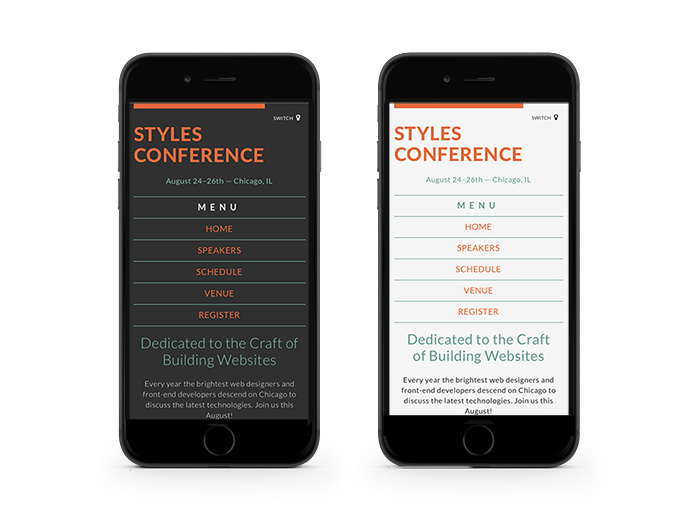
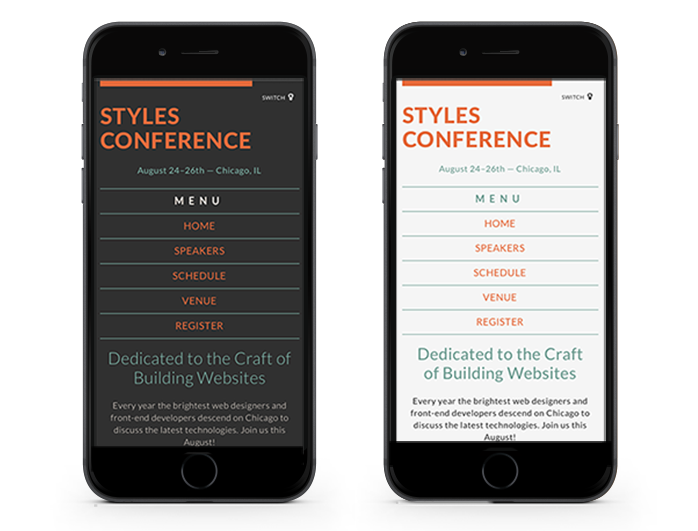
tcycle slide working

diff --git a/js/slick.min.js b/js/slick.min.js
@@ -1,0 +1,20 @@
+/*
+     _ _      _       _
+ ___| (_) ___| | __  (_)___
+/ __| | |/ __| |/ /  | / __|
+\__ \ | | (__|   < _ | \__ \
+|___/_|_|\___|_|\_(_)/ |___/
+                   |__/
+
+ Version: 1.5.0
+  Author: Ken Wheeler
+ Website: http://kenwheeler.github.io
+    Docs: http://kenwheeler.github.io/slick
+    Repo: http://github.com/kenwheeler/slick
+  Issues: http://github.com/kenwheeler/slick/issues
+
+ */
+/* global window, document, define, jQuery, setInterval, clearInterval */
+
+!function(a){"use strict";"function"==typeof define&&define.amd?define(["jquery"],a):"undefined"!=typeof exports?module.exports=a(require("jquery")):a(jQuery)}(function(a){"use strict";var b=window.Slick||{};b=function(){function c(c,d){var f,g,h,e=this;if(e.defaults={accessibility:!0,adaptiveHeight:!1,appendArrows:a(c),appendDots:a(c),arrows:!0,asNavFor:null,prevArrow:'<button type="button" data-role="none" class="slick-prev" aria-label="previous">Previous</button>',nextArrow:'<button type="button" data-role="none" class="slick-next" aria-label="next">Next</button>',autoplay:!1,autoplaySpeed:3e3,centerMode:!1,centerPadding:"50px",cssEase:"ease",customPaging:function(a,b){return'<button type="button" data-role="none">'+(b+1)+"</button>"},dots:!1,dotsClass:"slick-dots",draggable:!0,easing:"linear",edgeFriction:.35,fade:!1,focusOnSelect:!1,infinite:!0,initialSlide:0,lazyLoad:"ondemand",mobileFirst:!1,pauseOnHover:!0,pauseOnDotsHover:!1,respondTo:"window",responsive:null,rows:1,rtl:!1,slide:"",slidesPerRow:1,slidesToShow:1,slidesToScroll:1,speed:500,swipe:!0,swipeToSlide:!1,touchMove:!0,touchThreshold:5,useCSS:!0,variableWidth:!1,vertical:!1,verticalSwiping:!1,waitForAnimate:!0},e.initials={animating:!1,dragging:!1,autoPlayTimer:null,currentDirection:0,currentLeft:null,currentSlide:0,direction:1,$dots:null,listWidth:null,listHeight:null,loadIndex:0,$nextArrow:null,$prevArrow:null,slideCount:null,slideWidth:null,$slideTrack:null,$slides:null,sliding:!1,slideOffset:0,swipeLeft:null,$list:null,touchObject:{},transformsEnabled:!1},a.extend(e,e.initials),e.activeBreakpoint=null,e.animType=null,e.animProp=null,e.breakpoints=[],e.breakpointSettings=[],e.cssTransitions=!1,e.hidden="hidden",e.paused=!1,e.positionProp=null,e.respondTo=null,e.rowCount=1,e.shouldClick=!0,e.$slider=a(c),e.$slidesCache=null,e.transformType=null,e.transitionType=null,e.visibilityChange="visibilitychange",e.windowWidth=0,e.windowTimer=null,f=a(c).data("slick")||{},e.options=a.extend({},e.defaults,f,d),e.currentSlide=e.options.initialSlide,e.originalSettings=e.options,g=e.options.responsive||null,g&&g.length>-1){e.respondTo=e.options.respondTo||"window";for(h in g)g.hasOwnProperty(h)&&(e.breakpoints.push(g[h].breakpoint),e.breakpointSettings[g[h].breakpoint]=g[h].settings);e.breakpoints.sort(function(a,b){return e.options.mobileFirst===!0?a-b:b-a})}"undefined"!=typeof document.mozHidden?(e.hidden="mozHidden",e.visibilityChange="mozvisibilitychange"):"undefined"!=typeof document.msHidden?(e.hidden="msHidden",e.visibilityChange="msvisibilitychange"):"undefined"!=typeof document.webkitHidden&&(e.hidden="webkitHidden",e.visibilityChange="webkitvisibilitychange"),e.autoPlay=a.proxy(e.autoPlay,e),e.autoPlayClear=a.proxy(e.autoPlayClear,e),e.changeSlide=a.proxy(e.changeSlide,e),e.clickHandler=a.proxy(e.clickHandler,e),e.selectHandler=a.proxy(e.selectHandler,e),e.setPosition=a.proxy(e.setPosition,e),e.swipeHandler=a.proxy(e.swipeHandler,e),e.dragHandler=a.proxy(e.dragHandler,e),e.keyHandler=a.proxy(e.keyHandler,e),e.autoPlayIterator=a.proxy(e.autoPlayIterator,e),e.instanceUid=b++,e.htmlExpr=/^(?:\s*(<[\w\W]+>)[^>]*)$/,e.init(),e.checkResponsive(!0)}var b=0;return c}(),b.prototype.addSlide=b.prototype.slickAdd=function(b,c,d){var e=this;if("boolean"==typeof c)d=c,c=null;else if(0>c||c>=e.slideCount)return!1;e.unload(),"number"==typeof c?0===c&&0===e.$slides.length?a(b).appendTo(e.$slideTrack):d?a(b).insertBefore(e.$slides.eq(c)):a(b).insertAfter(e.$slides.eq(c)):d===!0?a(b).prependTo(e.$slideTrack):a(b).appendTo(e.$slideTrack),e.$slides=e.$slideTrack.children(this.options.slide),e.$slideTrack.children(this.options.slide).detach(),e.$slideTrack.append(e.$slides),e.$slides.each(function(b,c){a(c).attr("data-slick-index",b)}),e.$slidesCache=e.$slides,e.reinit()},b.prototype.animateHeight=function(){var a=this;if(1===a.options.slidesToShow&&a.options.adaptiveHeight===!0&&a.options.vertical===!1){var b=a.$slides.eq(a.currentSlide).outerHeight(!0);a.$list.animate({height:b},a.options.speed)}},b.prototype.animateSlide=function(b,c){var d={},e=this;e.animateHeight(),e.options.rtl===!0&&e.options.vertical===!1&&(b=-b),e.transformsEnabled===!1?e.options.vertical===!1?e.$slideTrack.animate({left:b},e.options.speed,e.options.easing,c):e.$slideTrack.animate({top:b},e.options.speed,e.options.easing,c):e.cssTransitions===!1?(e.options.rtl===!0&&(e.currentLeft=-e.currentLeft),a({animStart:e.currentLeft}).animate({animStart:b},{duration:e.options.speed,easing:e.options.easing,step:function(a){a=Math.ceil(a),e.options.vertical===!1?(d[e.animType]="translate("+a+"px, 0px)",e.$slideTrack.css(d)):(d[e.animType]="translate(0px,"+a+"px)",e.$slideTrack.css(d))},complete:function(){c&&c.call()}})):(e.applyTransition(),b=Math.ceil(b),d[e.animType]=e.options.vertical===!1?"translate3d("+b+"px, 0px, 0px)":"translate3d(0px,"+b+"px, 0px)",e.$slideTrack.css(d),c&&setTimeout(function(){e.disableTransition(),c.call()},e.options.speed))},b.prototype.asNavFor=function(b){var c=this,d=null!==c.options.asNavFor?a(c.options.asNavFor).slick("getSlick"):null;null!==d&&d.slideHandler(b,!0)},b.prototype.applyTransition=function(a){var b=this,c={};c[b.transitionType]=b.options.fade===!1?b.transformType+" "+b.options.speed+"ms "+b.options.cssEase:"opacity "+b.options.speed+"ms "+b.options.cssEase,b.options.fade===!1?b.$slideTrack.css(c):b.$slides.eq(a).css(c)},b.prototype.autoPlay=function(){var a=this;a.autoPlayTimer&&clearInterval(a.autoPlayTimer),a.slideCount>a.options.slidesToShow&&a.paused!==!0&&(a.autoPlayTimer=setInterval(a.autoPlayIterator,a.options.autoplaySpeed))},b.prototype.autoPlayClear=function(){var a=this;a.autoPlayTimer&&clearInterval(a.autoPlayTimer)},b.prototype.autoPlayIterator=function(){var a=this;a.options.infinite===!1?1===a.direction?(a.currentSlide+1===a.slideCount-1&&(a.direction=0),a.slideHandler(a.currentSlide+a.options.slidesToScroll)):(0===a.currentSlide-1&&(a.direction=1),a.slideHandler(a.currentSlide-a.options.slidesToScroll)):a.slideHandler(a.currentSlide+a.options.slidesToScroll)},b.prototype.buildArrows=function(){var b=this;b.options.arrows===!0&&b.slideCount>b.options.slidesToShow&&(b.$prevArrow=a(b.options.prevArrow),b.$nextArrow=a(b.options.nextArrow),b.htmlExpr.test(b.options.prevArrow)&&b.$prevArrow.appendTo(b.options.appendArrows),b.htmlExpr.test(b.options.nextArrow)&&b.$nextArrow.appendTo(b.options.appendArrows),b.options.infinite!==!0&&b.$prevArrow.addClass("slick-disabled"))},b.prototype.buildDots=function(){var c,d,b=this;if(b.options.dots===!0&&b.slideCount>b.options.slidesToShow){for(d='<ul class="'+b.options.dotsClass+'">',c=0;c<=b.getDotCount();c+=1)d+="<li>"+b.options.customPaging.call(this,b,c)+"</li>";d+="</ul>",b.$dots=a(d).appendTo(b.options.appendDots),b.$dots.find("li").first().addClass("slick-active").attr("aria-hidden","false")}},b.prototype.buildOut=function(){var b=this;b.$slides=b.$slider.children(":not(.slick-cloned)").addClass("slick-slide"),b.slideCount=b.$slides.length,b.$slides.each(function(b,c){a(c).attr("data-slick-index",b)}),b.$slidesCache=b.$slides,b.$slider.addClass("slick-slider"),b.$slideTrack=0===b.slideCount?a('<div class="slick-track"/>').appendTo(b.$slider):b.$slides.wrapAll('<div class="slick-track"/>').parent(),b.$list=b.$slideTrack.wrap('<div aria-live="polite" class="slick-list"/>').parent(),b.$slideTrack.css("opacity",0),(b.options.centerMode===!0||b.options.swipeToSlide===!0)&&(b.options.slidesToScroll=1),a("img[data-lazy]",b.$slider).not("[src]").addClass("slick-loading"),b.setupInfinite(),b.buildArrows(),b.buildDots(),b.updateDots(),b.options.accessibility===!0&&b.$list.prop("tabIndex",0),b.setSlideClasses("number"==typeof this.currentSlide?this.currentSlide:0),b.options.draggable===!0&&b.$list.addClass("draggable")},b.prototype.buildRows=function(){var b,c,d,e,f,g,h,a=this;if(e=document.createDocumentFragment(),g=a.$slider.children(),a.options.rows>1){for(h=a.options.slidesPerRow*a.options.rows,f=Math.ceil(g.length/h),b=0;f>b;b++){var i=document.createElement("div");for(c=0;c<a.options.rows;c++){var j=document.createElement("div");for(d=0;d<a.options.slidesPerRow;d++){var k=b*h+(c*a.options.slidesPerRow+d);g.get(k)&&j.appendChild(g.get(k))}i.appendChild(j)}e.appendChild(i)}a.$slider.html(e),a.$slider.children().children().children().width(100/a.options.slidesPerRow+"%").css({display:"inline-block"})}},b.prototype.checkResponsive=function(b){var d,e,f,c=this,g=c.$slider.width(),h=window.innerWidth||a(window).width();if("window"===c.respondTo?f=h:"slider"===c.respondTo?f=g:"min"===c.respondTo&&(f=Math.min(h,g)),c.originalSettings.responsive&&c.originalSettings.responsive.length>-1&&null!==c.originalSettings.responsive){e=null;for(d in c.breakpoints)c.breakpoints.hasOwnProperty(d)&&(c.originalSettings.mobileFirst===!1?f<c.breakpoints[d]&&(e=c.breakpoints[d]):f>c.breakpoints[d]&&(e=c.breakpoints[d]));null!==e?null!==c.activeBreakpoint?e!==c.activeBreakpoint&&(c.activeBreakpoint=e,"unslick"===c.breakpointSettings[e]?c.unslick():(c.options=a.extend({},c.originalSettings,c.breakpointSettings[e]),b===!0&&(c.currentSlide=c.options.initialSlide),c.refresh())):(c.activeBreakpoint=e,"unslick"===c.breakpointSettings[e]?c.unslick():(c.options=a.extend({},c.originalSettings,c.breakpointSettings[e]),b===!0&&(c.currentSlide=c.options.initialSlide),c.refresh())):null!==c.activeBreakpoint&&(c.activeBreakpoint=null,c.options=c.originalSettings,b===!0&&(c.currentSlide=c.options.initialSlide),c.refresh())}},b.prototype.changeSlide=function(b,c){var f,g,h,d=this,e=a(b.target);switch(e.is("a")&&b.preventDefault(),h=0!==d.slideCount%d.options.slidesToScroll,f=h?0:(d.slideCount-d.currentSlide)%d.options.slidesToScroll,b.data.message){case"previous":g=0===f?d.options.slidesToScroll:d.options.slidesToShow-f,d.slideCount>d.options.slidesToShow&&d.slideHandler(d.currentSlide-g,!1,c);break;case"next":g=0===f?d.options.slidesToScroll:f,d.slideCount>d.options.slidesToShow&&d.slideHandler(d.currentSlide+g,!1,c);break;case"index":var i=0===b.data.index?0:b.data.index||a(b.target).parent().index()*d.options.slidesToScroll;d.slideHandler(d.checkNavigable(i),!1,c);break;default:return}},b.prototype.checkNavigable=function(a){var c,d,b=this;if(c=b.getNavigableIndexes(),d=0,a>c[c.length-1])a=c[c.length-1];else for(var e in c){if(a<c[e]){a=d;break}d=c[e]}return a},b.prototype.cleanUpEvents=function(){var b=this;b.options.dots===!0&&b.slideCount>b.options.slidesToShow&&a("li",b.$dots).off("click.slick",b.changeSlide),b.options.dots===!0&&b.options.pauseOnDotsHover===!0&&b.options.autoplay===!0&&a("li",b.$dots).off("mouseenter.slick",b.setPaused.bind(b,!0)).off("mouseleave.slick",b.setPaused.bind(b,!1)),b.options.arrows===!0&&b.slideCount>b.options.slidesToShow&&(b.$prevArrow&&b.$prevArrow.off("click.slick",b.changeSlide),b.$nextArrow&&b.$nextArrow.off("click.slick",b.changeSlide)),b.$list.off("touchstart.slick mousedown.slick",b.swipeHandler),b.$list.off("touchmove.slick mousemove.slick",b.swipeHandler),b.$list.off("touchend.slick mouseup.slick",b.swipeHandler),b.$list.off("touchcancel.slick mouseleave.slick",b.swipeHandler),b.$list.off("click.slick",b.clickHandler),b.options.autoplay===!0&&a(document).off(b.visibilityChange,b.visibility),b.$list.off("mouseenter.slick",b.setPaused.bind(b,!0)),b.$list.off("mouseleave.slick",b.setPaused.bind(b,!1)),b.options.accessibility===!0&&b.$list.off("keydown.slick",b.keyHandler),b.options.focusOnSelect===!0&&a(b.$slideTrack).children().off("click.slick",b.selectHandler),a(window).off("orientationchange.slick.slick-"+b.instanceUid,b.orientationChange),a(window).off("resize.slick.slick-"+b.instanceUid,b.resize),a("[draggable!=true]",b.$slideTrack).off("dragstart",b.preventDefault),a(window).off("load.slick.slick-"+b.instanceUid,b.setPosition),a(document).off("ready.slick.slick-"+b.instanceUid,b.setPosition)},b.prototype.cleanUpRows=function(){var b,a=this;a.options.rows>1&&(b=a.$slides.children().children(),b.removeAttr("style"),a.$slider.html(b))},b.prototype.clickHandler=function(a){var b=this;b.shouldClick===!1&&(a.stopImmediatePropagation(),a.stopPropagation(),a.preventDefault())},b.prototype.destroy=function(){var b=this;b.autoPlayClear(),b.touchObject={},b.cleanUpEvents(),a(".slick-cloned",b.$slider).remove(),b.$dots&&b.$dots.remove(),b.$prevArrow&&"object"!=typeof b.options.prevArrow&&b.$prevArrow.remove(),b.$nextArrow&&"object"!=typeof b.options.nextArrow&&b.$nextArrow.remove(),b.$slides&&(b.$slides.removeClass("slick-slide slick-active slick-center slick-visible").attr("aria-hidden","true").removeAttr("data-slick-index").css({position:"",left:"",top:"",zIndex:"",opacity:"",width:""}),b.$slider.html(b.$slides)),b.cleanUpRows(),b.$slider.removeClass("slick-slider"),b.$slider.removeClass("slick-initialized")},b.prototype.disableTransition=function(a){var b=this,c={};c[b.transitionType]="",b.options.fade===!1?b.$slideTrack.css(c):b.$slides.eq(a).css(c)},b.prototype.fadeSlide=function(a,b){var c=this;c.cssTransitions===!1?(c.$slides.eq(a).css({zIndex:1e3}),c.$slides.eq(a).animate({opacity:1},c.options.speed,c.options.easing,b)):(c.applyTransition(a),c.$slides.eq(a).css({opacity:1,zIndex:1e3}),b&&setTimeout(function(){c.disableTransition(a),b.call()},c.options.speed))},b.prototype.filterSlides=b.prototype.slickFilter=function(a){var b=this;null!==a&&(b.unload(),b.$slideTrack.children(this.options.slide).detach(),b.$slidesCache.filter(a).appendTo(b.$slideTrack),b.reinit())},b.prototype.getCurrent=b.prototype.slickCurrentSlide=function(){var a=this;return a.currentSlide},b.prototype.getDotCount=function(){var a=this,b=0,c=0,d=0;if(a.options.infinite===!0)d=Math.ceil(a.slideCount/a.options.slidesToScroll);else if(a.options.centerMode===!0)d=a.slideCount;else for(;b<a.slideCount;)++d,b=c+a.options.slidesToShow,c+=a.options.slidesToScroll<=a.options.slidesToShow?a.options.slidesToScroll:a.options.slidesToShow;return d-1},b.prototype.getLeft=function(a){var c,d,f,b=this,e=0;return b.slideOffset=0,d=b.$slides.first().outerHeight(),b.options.infinite===!0?(b.slideCount>b.options.slidesToShow&&(b.slideOffset=-1*b.slideWidth*b.options.slidesToShow,e=-1*d*b.options.slidesToShow),0!==b.slideCount%b.options.slidesToScroll&&a+b.options.slidesToScroll>b.slideCount&&b.slideCount>b.options.slidesToShow&&(a>b.slideCount?(b.slideOffset=-1*(b.options.slidesToShow-(a-b.slideCount))*b.slideWidth,e=-1*(b.options.slidesToShow-(a-b.slideCount))*d):(b.slideOffset=-1*b.slideCount%b.options.slidesToScroll*b.slideWidth,e=-1*b.slideCount%b.options.slidesToScroll*d))):a+b.options.slidesToShow>b.slideCount&&(b.slideOffset=(a+b.options.slidesToShow-b.slideCount)*b.slideWidth,e=(a+b.options.slidesToShow-b.slideCount)*d),b.slideCount<=b.options.slidesToShow&&(b.slideOffset=0,e=0),b.options.centerMode===!0&&b.options.infinite===!0?b.slideOffset+=b.slideWidth*Math.floor(b.options.slidesToShow/2)-b.slideWidth:b.options.centerMode===!0&&(b.slideOffset=0,b.slideOffset+=b.slideWidth*Math.floor(b.options.slidesToShow/2)),c=b.options.vertical===!1?-1*a*b.slideWidth+b.slideOffset:-1*a*d+e,b.options.variableWidth===!0&&(f=b.slideCount<=b.options.slidesToShow||b.options.infinite===!1?b.$slideTrack.children(".slick-slide").eq(a):b.$slideTrack.children(".slick-slide").eq(a+b.options.slidesToShow),c=f[0]?-1*f[0].offsetLeft:0,b.options.centerMode===!0&&(f=b.options.infinite===!1?b.$slideTrack.children(".slick-slide").eq(a):b.$slideTrack.children(".slick-slide").eq(a+b.options.slidesToShow+1),c=f[0]?-1*f[0].offsetLeft:0,c+=(b.$list.width()-f.outerWidth())/2)),c},b.prototype.getOption=b.prototype.slickGetOption=function(a){var b=this;return b.options[a]},b.prototype.getNavigableIndexes=function(){var e,a=this,b=0,c=0,d=[];for(a.options.infinite===!1?(e=a.slideCount-a.options.slidesToShow+1,a.options.centerMode===!0&&(e=a.slideCount)):(b=-1*a.options.slidesToScroll,c=-1*a.options.slidesToScroll,e=2*a.slideCount);e>b;)d.push(b),b=c+a.options.slidesToScroll,c+=a.options.slidesToScroll<=a.options.slidesToShow?a.options.slidesToScroll:a.options.slidesToShow;return d},b.prototype.getSlick=function(){return this},b.prototype.getSlideCount=function(){var c,d,e,b=this;return e=b.options.centerMode===!0?b.slideWidth*Math.floor(b.options.slidesToShow/2):0,b.options.swipeToSlide===!0?(b.$slideTrack.find(".slick-slide").each(function(c,f){return f.offsetLeft-e+a(f).outerWidth()/2>-1*b.swipeLeft?(d=f,!1):void 0}),c=Math.abs(a(d).attr("data-slick-index")-b.currentSlide)||1):b.options.slidesToScroll},b.prototype.goTo=b.prototype.slickGoTo=function(a,b){var c=this;c.changeSlide({data:{message:"index",index:parseInt(a)}},b)},b.prototype.init=function(){var b=this;a(b.$slider).hasClass("slick-initialized")||(a(b.$slider).addClass("slick-initialized"),b.buildRows(),b.buildOut(),b.setProps(),b.startLoad(),b.loadSlider(),b.initializeEvents(),b.updateArrows(),b.updateDots()),b.$slider.trigger("init",[b])},b.prototype.initArrowEvents=function(){var a=this;a.options.arrows===!0&&a.slideCount>a.options.slidesToShow&&(a.$prevArrow.on("click.slick",{message:"previous"},a.changeSlide),a.$nextArrow.on("click.slick",{message:"next"},a.changeSlide))},b.prototype.initDotEvents=function(){var b=this;b.options.dots===!0&&b.slideCount>b.options.slidesToShow&&a("li",b.$dots).on("click.slick",{message:"index"},b.changeSlide),b.options.dots===!0&&b.options.pauseOnDotsHover===!0&&b.options.autoplay===!0&&a("li",b.$dots).on("mouseenter.slick",b.setPaused.bind(b,!0)).on("mouseleave.slick",b.setPaused.bind(b,!1))},b.prototype.initializeEvents=function(){var b=this;b.initArrowEvents(),b.initDotEvents(),b.$list.on("touchstart.slick mousedown.slick",{action:"start"},b.swipeHandler),b.$list.on("touchmove.slick mousemove.slick",{action:"move"},b.swipeHandler),b.$list.on("touchend.slick mouseup.slick",{action:"end"},b.swipeHandler),b.$list.on("touchcancel.slick mouseleave.slick",{action:"end"},b.swipeHandler),b.$list.on("click.slick",b.clickHandler),b.options.autoplay===!0&&a(document).on(b.visibilityChange,b.visibility.bind(b)),b.$list.on("mouseenter.slick",b.setPaused.bind(b,!0)),b.$list.on("mouseleave.slick",b.setPaused.bind(b,!1)),b.options.accessibility===!0&&b.$list.on("keydown.slick",b.keyHandler),b.options.focusOnSelect===!0&&a(b.$slideTrack).children().on("click.slick",b.selectHandler),a(window).on("orientationchange.slick.slick-"+b.instanceUid,b.orientationChange.bind(b)),a(window).on("resize.slick.slick-"+b.instanceUid,b.resize.bind(b)),a("[draggable!=true]",b.$slideTrack).on("dragstart",b.preventDefault),a(window).on("load.slick.slick-"+b.instanceUid,b.setPosition),a(document).on("ready.slick.slick-"+b.instanceUid,b.setPosition)},b.prototype.initUI=function(){var a=this;a.options.arrows===!0&&a.slideCount>a.options.slidesToShow&&(a.$prevArrow.show(),a.$nextArrow.show()),a.options.dots===!0&&a.slideCount>a.options.slidesToShow&&a.$dots.show(),a.options.autoplay===!0&&a.autoPlay()},b.prototype.keyHandler=function(a){var b=this;37===a.keyCode&&b.options.accessibility===!0?b.changeSlide({data:{message:"previous"}}):39===a.keyCode&&b.options.accessibility===!0&&b.changeSlide({data:{message:"next"}})},b.prototype.lazyLoad=function(){function g(b){a("img[data-lazy]",b).each(function(){var b=a(this),c=a(this).attr("data-lazy"),d=document.createElement("img");d.onload=function(){b.animate({opacity:1},200)},d.src=c,b.css({opacity:0}).attr("src",c).removeAttr("data-lazy").removeClass("slick-loading")})}var c,d,e,f,b=this;b.options.centerMode===!0?b.options.infinite===!0?(e=b.currentSlide+(b.options.slidesToShow/2+1),f=e+b.options.slidesToShow+2):(e=Math.max(0,b.currentSlide-(b.options.slidesToShow/2+1)),f=2+(b.options.slidesToShow/2+1)+b.currentSlide):(e=b.options.infinite?b.options.slidesToShow+b.currentSlide:b.currentSlide,f=e+b.options.slidesToShow,b.options.fade===!0&&(e>0&&e--,f<=b.slideCount&&f++)),c=b.$slider.find(".slick-slide").slice(e,f),g(c),b.slideCount<=b.options.slidesToShow?(d=b.$slider.find(".slick-slide"),g(d)):b.currentSlide>=b.slideCount-b.options.slidesToShow?(d=b.$slider.find(".slick-cloned").slice(0,b.options.slidesToShow),g(d)):0===b.currentSlide&&(d=b.$slider.find(".slick-cloned").slice(-1*b.options.slidesToShow),g(d))},b.prototype.loadSlider=function(){var a=this;a.setPosition(),a.$slideTrack.css({opacity:1}),a.$slider.removeClass("slick-loading"),a.initUI(),"progressive"===a.options.lazyLoad&&a.progressiveLazyLoad()},b.prototype.next=b.prototype.slickNext=function(){var a=this;a.changeSlide({data:{message:"next"}})},b.prototype.orientationChange=function(){var a=this;a.checkResponsive(),a.setPosition()},b.prototype.pause=b.prototype.slickPause=function(){var a=this;a.autoPlayClear(),a.paused=!0},b.prototype.play=b.prototype.slickPlay=function(){var a=this;a.paused=!1,a.autoPlay()},b.prototype.postSlide=function(a){var b=this;b.$slider.trigger("afterChange",[b,a]),b.animating=!1,b.setPosition(),b.swipeLeft=null,b.options.autoplay===!0&&b.paused===!1&&b.autoPlay()},b.prototype.prev=b.prototype.slickPrev=function(){var a=this;a.changeSlide({data:{message:"previous"}})},b.prototype.preventDefault=function(a){a.preventDefault()},b.prototype.progressiveLazyLoad=function(){var c,d,b=this;c=a("img[data-lazy]",b.$slider).length,c>0&&(d=a("img[data-lazy]",b.$slider).first(),d.attr("src",d.attr("data-lazy")).removeClass("slick-loading").load(function(){d.removeAttr("data-lazy"),b.progressiveLazyLoad(),b.options.adaptiveHeight===!0&&b.setPosition()}).error(function(){d.removeAttr("data-lazy"),b.progressiveLazyLoad()}))},b.prototype.refresh=function(){var b=this,c=b.currentSlide;b.destroy(),a.extend(b,b.initials),b.init(),b.changeSlide({data:{message:"index",index:c}},!1)},b.prototype.reinit=function(){var b=this;b.$slides=b.$slideTrack.children(b.options.slide).addClass("slick-slide"),b.slideCount=b.$slides.length,b.currentSlide>=b.slideCount&&0!==b.currentSlide&&(b.currentSlide=b.currentSlide-b.options.slidesToScroll),b.slideCount<=b.options.slidesToShow&&(b.currentSlide=0),b.setProps(),b.setupInfinite(),b.buildArrows(),b.updateArrows(),b.initArrowEvents(),b.buildDots(),b.updateDots(),b.initDotEvents(),b.options.focusOnSelect===!0&&a(b.$slideTrack).children().on("click.slick",b.selectHandler),b.setSlideClasses(0),b.setPosition(),b.$slider.trigger("reInit",[b])},b.prototype.resize=function(){var b=this;a(window).width()!==b.windowWidth&&(clearTimeout(b.windowDelay),b.windowDelay=window.setTimeout(function(){b.windowWidth=a(window).width(),b.checkResponsive(),b.setPosition()},50))},b.prototype.removeSlide=b.prototype.slickRemove=function(a,b,c){var d=this;return"boolean"==typeof a?(b=a,a=b===!0?0:d.slideCount-1):a=b===!0?--a:a,d.slideCount<1||0>a||a>d.slideCount-1?!1:(d.unload(),c===!0?d.$slideTrack.children().remove():d.$slideTrack.children(this.options.slide).eq(a).remove(),d.$slides=d.$slideTrack.children(this.options.slide),d.$slideTrack.children(this.options.slide).detach(),d.$slideTrack.append(d.$slides),d.$slidesCache=d.$slides,d.reinit(),void 0)},b.prototype.setCSS=function(a){var d,e,b=this,c={};b.options.rtl===!0&&(a=-a),d="left"==b.positionProp?Math.ceil(a)+"px":"0px",e="top"==b.positionProp?Math.ceil(a)+"px":"0px",c[b.positionProp]=a,b.transformsEnabled===!1?b.$slideTrack.css(c):(c={},b.cssTransitions===!1?(c[b.animType]="translate("+d+", "+e+")",b.$slideTrack.css(c)):(c[b.animType]="translate3d("+d+", "+e+", 0px)",b.$slideTrack.css(c)))},b.prototype.setDimensions=function(){var a=this;a.options.vertical===!1?a.options.centerMode===!0&&a.$list.css({padding:"0px "+a.options.centerPadding}):(a.$list.height(a.$slides.first().outerHeight(!0)*a.options.slidesToShow),a.options.centerMode===!0&&a.$list.css({padding:a.options.centerPadding+" 0px"})),a.listWidth=a.$list.width(),a.listHeight=a.$list.height(),a.options.vertical===!1&&a.options.variableWidth===!1?(a.slideWidth=Math.ceil(a.listWidth/a.options.slidesToShow),a.$slideTrack.width(Math.ceil(a.slideWidth*a.$slideTrack.children(".slick-slide").length))):a.options.variableWidth===!0?a.$slideTrack.width(5e3*a.slideCount):(a.slideWidth=Math.ceil(a.listWidth),a.$slideTrack.height(Math.ceil(a.$slides.first().outerHeight(!0)*a.$slideTrack.children(".slick-slide").length)));var b=a.$slides.first().outerWidth(!0)-a.$slides.first().width();a.options.variableWidth===!1&&a.$slideTrack.children(".slick-slide").width(a.slideWidth-b)},b.prototype.setFade=function(){var c,b=this;b.$slides.each(function(d,e){c=-1*b.slideWidth*d,b.options.rtl===!0?a(e).css({position:"relative",right:c,top:0,zIndex:800,opacity:0}):a(e).css({position:"relative",left:c,top:0,zIndex:800,opacity:0})}),b.$slides.eq(b.currentSlide).css({zIndex:900,opacity:1})},b.prototype.setHeight=function(){var a=this;if(1===a.options.slidesToShow&&a.options.adaptiveHeight===!0&&a.options.vertical===!1){var b=a.$slides.eq(a.currentSlide).outerHeight(!0);a.$list.css("height",b)}},b.prototype.setOption=b.prototype.slickSetOption=function(a,b,c){var d=this;d.options[a]=b,c===!0&&(d.unload(),d.reinit())},b.prototype.setPosition=function(){var a=this;a.setDimensions(),a.setHeight(),a.options.fade===!1?a.setCSS(a.getLeft(a.currentSlide)):a.setFade(),a.$slider.trigger("setPosition",[a])},b.prototype.setProps=function(){var a=this,b=document.body.style;a.positionProp=a.options.vertical===!0?"top":"left","top"===a.positionProp?a.$slider.addClass("slick-vertical"):a.$slider.removeClass("slick-vertical"),(void 0!==b.WebkitTransition||void 0!==b.MozTransition||void 0!==b.msTransition)&&a.options.useCSS===!0&&(a.cssTransitions=!0),void 0!==b.OTransform&&(a.animType="OTransform",a.transformType="-o-transform",a.transitionType="OTransition",void 0===b.perspectiveProperty&&void 0===b.webkitPerspective&&(a.animType=!1)),void 0!==b.MozTransform&&(a.animType="MozTransform",a.transformType="-moz-transform",a.transitionType="MozTransition",void 0===b.perspectiveProperty&&void 0===b.MozPerspective&&(a.animType=!1)),void 0!==b.webkitTransform&&(a.animType="webkitTransform",a.transformType="-webkit-transform",a.transitionType="webkitTransition",void 0===b.perspectiveProperty&&void 0===b.webkitPerspective&&(a.animType=!1)),void 0!==b.msTransform&&(a.animType="msTransform",a.transformType="-ms-transform",a.transitionType="msTransition",void 0===b.msTransform&&(a.animType=!1)),void 0!==b.transform&&a.animType!==!1&&(a.animType="transform",a.transformType="transform",a.transitionType="transition"),a.transformsEnabled=null!==a.animType&&a.animType!==!1},b.prototype.setSlideClasses=function(a){var c,d,e,f,b=this;b.$slider.find(".slick-slide").removeClass("slick-active").attr("aria-hidden","true").removeClass("slick-center"),d=b.$slider.find(".slick-slide"),b.options.centerMode===!0?(c=Math.floor(b.options.slidesToShow/2),b.options.infinite===!0&&(a>=c&&a<=b.slideCount-1-c?b.$slides.slice(a-c,a+c+1).addClass("slick-active").attr("aria-hidden","false"):(e=b.options.slidesToShow+a,d.slice(e-c+1,e+c+2).addClass("slick-active").attr("aria-hidden","false")),0===a?d.eq(d.length-1-b.options.slidesToShow).addClass("slick-center"):a===b.slideCount-1&&d.eq(b.options.slidesToShow).addClass("slick-center")),b.$slides.eq(a).addClass("slick-center")):a>=0&&a<=b.slideCount-b.options.slidesToShow?b.$slides.slice(a,a+b.options.slidesToShow).addClass("slick-active").attr("aria-hidden","false"):d.length<=b.options.slidesToShow?d.addClass("slick-active").attr("aria-hidden","false"):(f=b.slideCount%b.options.slidesToShow,e=b.options.infinite===!0?b.options.slidesToShow+a:a,b.options.slidesToShow==b.options.slidesToScroll&&b.slideCount-a<b.options.slidesToShow?d.slice(e-(b.options.slidesToShow-f),e+f).addClass("slick-active").attr("aria-hidden","false"):d.slice(e,e+b.options.slidesToShow).addClass("slick-active").attr("aria-hidden","false")),"ondemand"===b.options.lazyLoad&&b.lazyLoad()},b.prototype.setupInfinite=function(){var c,d,e,b=this;if(b.options.fade===!0&&(b.options.centerMode=!1),b.options.infinite===!0&&b.options.fade===!1&&(d=null,b.slideCount>b.options.slidesToShow)){for(e=b.options.centerMode===!0?b.options.slidesToShow+1:b.options.slidesToShow,c=b.slideCount;c>b.slideCount-e;c-=1)d=c-1,a(b.$slides[d]).clone(!0).attr("id","").attr("data-slick-index",d-b.slideCount).prependTo(b.$slideTrack).addClass("slick-cloned");for(c=0;e>c;c+=1)d=c,a(b.$slides[d]).clone(!0).attr("id","").attr("data-slick-index",d+b.slideCount).appendTo(b.$slideTrack).addClass("slick-cloned");b.$slideTrack.find(".slick-cloned").find("[id]").each(function(){a(this).attr("id","")})}},b.prototype.setPaused=function(a){var b=this;b.options.autoplay===!0&&b.options.pauseOnHover===!0&&(b.paused=a,b.autoPlayClear())},b.prototype.selectHandler=function(b){var c=this,d=a(b.target).is(".slick-slide")?a(b.target):a(b.target).parents(".slick-slide"),e=parseInt(d.attr("data-slick-index"));return e||(e=0),c.slideCount<=c.options.slidesToShow?(c.$slider.find(".slick-slide").removeClass("slick-active").attr("aria-hidden","true"),c.$slides.eq(e).addClass("slick-active").attr("aria-hidden","false"),c.options.centerMode===!0&&(c.$slider.find(".slick-slide").removeClass("slick-center"),c.$slides.eq(e).addClass("slick-center")),c.asNavFor(e),void 0):(c.slideHandler(e),void 0)},b.prototype.slideHandler=function(a,b,c){var d,e,f,g,h=null,i=this;return b=b||!1,i.animating===!0&&i.options.waitForAnimate===!0||i.options.fade===!0&&i.currentSlide===a||i.slideCount<=i.options.slidesToShow?void 0:(b===!1&&i.asNavFor(a),d=a,h=i.getLeft(d),g=i.getLeft(i.currentSlide),i.currentLeft=null===i.swipeLeft?g:i.swipeLeft,i.options.infinite===!1&&i.options.centerMode===!1&&(0>a||a>i.getDotCount()*i.options.slidesToScroll)?(i.options.fade===!1&&(d=i.currentSlide,c!==!0?i.animateSlide(g,function(){i.postSlide(d)}):i.postSlide(d)),void 0):i.options.infinite===!1&&i.options.centerMode===!0&&(0>a||a>i.slideCount-i.options.slidesToScroll)?(i.options.fade===!1&&(d=i.currentSlide,c!==!0?i.animateSlide(g,function(){i.postSlide(d)}):i.postSlide(d)),void 0):(i.options.autoplay===!0&&clearInterval(i.autoPlayTimer),e=0>d?0!==i.slideCount%i.options.slidesToScroll?i.slideCount-i.slideCount%i.options.slidesToScroll:i.slideCount+d:d>=i.slideCount?0!==i.slideCount%i.options.slidesToScroll?0:d-i.slideCount:d,i.animating=!0,i.$slider.trigger("beforeChange",[i,i.currentSlide,e]),f=i.currentSlide,i.currentSlide=e,i.setSlideClasses(i.currentSlide),i.updateDots(),i.updateArrows(),i.options.fade===!0?(c!==!0?i.fadeSlide(e,function(){i.postSlide(e)}):i.postSlide(e),i.animateHeight(),void 0):(c!==!0?i.animateSlide(h,function(){i.postSlide(e)}):i.postSlide(e),void 0)))},b.prototype.startLoad=function(){var a=this;a.options.arrows===!0&&a.slideCount>a.options.slidesToShow&&(a.$prevArrow.hide(),a.$nextArrow.hide()),a.options.dots===!0&&a.slideCount>a.options.slidesToShow&&a.$dots.hide(),a.$slider.addClass("slick-loading")},b.prototype.swipeDirection=function(){var a,b,c,d,e=this;return a=e.touchObject.startX-e.touchObject.curX,b=e.touchObject.startY-e.touchObject.curY,c=Math.atan2(b,a),d=Math.round(180*c/Math.PI),0>d&&(d=360-Math.abs(d)),45>=d&&d>=0?e.options.rtl===!1?"left":"right":360>=d&&d>=315?e.options.rtl===!1?"left":"right":d>=135&&225>=d?e.options.rtl===!1?"right":"left":e.options.verticalSwiping===!0?d>=35&&135>=d?"left":"right":"vertical"},b.prototype.swipeEnd=function(){var c,b=this;if(b.dragging=!1,b.shouldClick=b.touchObject.swipeLength>10?!1:!0,void 0===b.touchObject.curX)return!1;if(b.touchObject.edgeHit===!0&&b.$slider.trigger("edge",[b,b.swipeDirection()]),b.touchObject.swipeLength>=b.touchObject.minSwipe)switch(b.swipeDirection()){case"left":c=b.options.swipeToSlide?b.checkNavigable(b.currentSlide+b.getSlideCount()):b.currentSlide+b.getSlideCount(),b.slideHandler(c),b.currentDirection=0,b.touchObject={},b.$slider.trigger("swipe",[b,"left"]);break;case"right":c=b.options.swipeToSlide?b.checkNavigable(b.currentSlide-b.getSlideCount()):b.currentSlide-b.getSlideCount(),b.slideHandler(c),b.currentDirection=1,b.touchObject={},b.$slider.trigger("swipe",[b,"right"])}else b.touchObject.startX!==b.touchObject.curX&&(b.slideHandler(b.currentSlide),b.touchObject={})},b.prototype.swipeHandler=function(a){var b=this;
+if(!(b.options.swipe===!1||"ontouchend"in document&&b.options.swipe===!1||b.options.draggable===!1&&-1!==a.type.indexOf("mouse")))switch(b.touchObject.fingerCount=a.originalEvent&&void 0!==a.originalEvent.touches?a.originalEvent.touches.length:1,b.touchObject.minSwipe=b.listWidth/b.options.touchThreshold,b.options.verticalSwiping===!0&&(b.touchObject.minSwipe=b.listHeight/b.options.touchThreshold),a.data.action){case"start":b.swipeStart(a);break;case"move":b.swipeMove(a);break;case"end":b.swipeEnd(a)}},b.prototype.swipeMove=function(a){var d,e,f,g,h,b=this;return h=void 0!==a.originalEvent?a.originalEvent.touches:null,!b.dragging||h&&1!==h.length?!1:(d=b.getLeft(b.currentSlide),b.touchObject.curX=void 0!==h?h[0].pageX:a.clientX,b.touchObject.curY=void 0!==h?h[0].pageY:a.clientY,b.touchObject.swipeLength=Math.round(Math.sqrt(Math.pow(b.touchObject.curX-b.touchObject.startX,2))),b.options.verticalSwiping===!0&&(b.touchObject.swipeLength=Math.round(Math.sqrt(Math.pow(b.touchObject.curY-b.touchObject.startY,2)))),e=b.swipeDirection(),"vertical"!==e?(void 0!==a.originalEvent&&b.touchObject.swipeLength>4&&a.preventDefault(),g=(b.options.rtl===!1?1:-1)*(b.touchObject.curX>b.touchObject.startX?1:-1),b.options.verticalSwiping===!0&&(g=b.touchObject.curY>b.touchObject.startY?1:-1),f=b.touchObject.swipeLength,b.touchObject.edgeHit=!1,b.options.infinite===!1&&(0===b.currentSlide&&"right"===e||b.currentSlide>=b.getDotCount()&&"left"===e)&&(f=b.touchObject.swipeLength*b.options.edgeFriction,b.touchObject.edgeHit=!0),b.swipeLeft=b.options.vertical===!1?d+f*g:d+f*(b.$list.height()/b.listWidth)*g,b.options.verticalSwiping===!0&&(b.swipeLeft=d+f*g),b.options.fade===!0||b.options.touchMove===!1?!1:b.animating===!0?(b.swipeLeft=null,!1):(b.setCSS(b.swipeLeft),void 0)):void 0)},b.prototype.swipeStart=function(a){var c,b=this;return 1!==b.touchObject.fingerCount||b.slideCount<=b.options.slidesToShow?(b.touchObject={},!1):(void 0!==a.originalEvent&&void 0!==a.originalEvent.touches&&(c=a.originalEvent.touches[0]),b.touchObject.startX=b.touchObject.curX=void 0!==c?c.pageX:a.clientX,b.touchObject.startY=b.touchObject.curY=void 0!==c?c.pageY:a.clientY,b.dragging=!0,void 0)},b.prototype.unfilterSlides=b.prototype.slickUnfilter=function(){var a=this;null!==a.$slidesCache&&(a.unload(),a.$slideTrack.children(this.options.slide).detach(),a.$slidesCache.appendTo(a.$slideTrack),a.reinit())},b.prototype.unload=function(){var b=this;a(".slick-cloned",b.$slider).remove(),b.$dots&&b.$dots.remove(),b.$prevArrow&&"object"!=typeof b.options.prevArrow&&b.$prevArrow.remove(),b.$nextArrow&&"object"!=typeof b.options.nextArrow&&b.$nextArrow.remove(),b.$slides.removeClass("slick-slide slick-active slick-visible").attr("aria-hidden","true").css("width","")},b.prototype.unslick=function(){var a=this;a.destroy()},b.prototype.updateArrows=function(){var b,a=this;b=Math.floor(a.options.slidesToShow/2),a.options.arrows===!0&&a.options.infinite!==!0&&a.slideCount>a.options.slidesToShow&&(a.$prevArrow.removeClass("slick-disabled"),a.$nextArrow.removeClass("slick-disabled"),0===a.currentSlide?(a.$prevArrow.addClass("slick-disabled"),a.$nextArrow.removeClass("slick-disabled")):a.currentSlide>=a.slideCount-a.options.slidesToShow&&a.options.centerMode===!1?(a.$nextArrow.addClass("slick-disabled"),a.$prevArrow.removeClass("slick-disabled")):a.currentSlide>=a.slideCount-1&&a.options.centerMode===!0&&(a.$nextArrow.addClass("slick-disabled"),a.$prevArrow.removeClass("slick-disabled")))},b.prototype.updateDots=function(){var a=this;null!==a.$dots&&(a.$dots.find("li").removeClass("slick-active").attr("aria-hidden","true"),a.$dots.find("li").eq(Math.floor(a.currentSlide/a.options.slidesToScroll)).addClass("slick-active").attr("aria-hidden","false"))},b.prototype.visibility=function(){var a=this;document[a.hidden]?(a.paused=!0,a.autoPlayClear()):(a.paused=!1,a.autoPlay())},a.fn.slick=function(){var g,a=this,c=arguments[0],d=Array.prototype.slice.call(arguments,1),e=a.length,f=0;for(f;e>f;f++)if("object"==typeof c||"undefined"==typeof c?a[f].slick=new b(a[f],c):g=a[f].slick[c].apply(a[f].slick,d),"undefined"!=typeof g)return g;return a}});

diff --git a/css/slick.css b/css/slick.css
@@ -1,0 +1,116 @@
+/* Slider */
+.slick-slider
+{
+    position: relative;
+
+    display: block;
+
+    -moz-box-sizing: border-box;
+         box-sizing: border-box;
+
+    -webkit-user-select: none;
+       -moz-user-select: none;
+        -ms-user-select: none;
+            user-select: none;
+
+    -webkit-touch-callout: none;
+    -khtml-user-select: none;
+    -ms-touch-action: pan-y;
+        touch-action: pan-y;
+    -webkit-tap-highlight-color: transparent;
+}
+
+.slick-list
+{
+    position: relative;
+
+    display: block;
+    overflow: hidden;
+
+    margin: 0;
+    padding: 0;
+}
+.slick-list:focus
+{
+    outline: none;
+}
+.slick-list.dragging
+{
+    cursor: pointer;
+    cursor: hand;
+}
+
+.slick-slider .slick-track,
+.slick-slider .slick-list
+{
+    -webkit-transform: translate3d(0, 0, 0);
+       -moz-transform: translate3d(0, 0, 0);
+        -ms-transform: translate3d(0, 0, 0);
+         -o-transform: translate3d(0, 0, 0);
+            transform: translate3d(0, 0, 0);
+}
+
+.slick-track
+{
+    position: relative;
+    top: 0;
+    left: 0;
+
+    display: block;
+}
+.slick-track:before,
+.slick-track:after
+{
+    display: table;
+
+    content: '';
+}
+.slick-track:after
+{
+    clear: both;
+}
+.slick-loading .slick-track
+{
+    visibility: hidden;
+}
+
+.slick-slide
+{
+    display: none;
+    float: left;
+
+    height: 100%;
+    min-height: 1px;
+}
+[dir='rtl'] .slick-slide
+{
+    float: right;
+}
+.slick-slide img
+{
+    display: block;
+}
+.slick-slide.slick-loading img
+{
+    display: none;
+}
+.slick-slide.dragging img
+{
+    pointer-events: none;
+}
+.slick-initialized .slick-slide
+{
+    display: block;
+}
+.slick-loading .slick-slide
+{
+    visibility: hidden;
+}
+.slick-vertical .slick-slide
+{
+    display: block;
+
+    height: auto;
+
+    border: 1px solid transparent;
+}

diff --git a/index.html b/index.html
@@ -8,6 +8,10 @@
     <link href='http://fonts.googleapis.com/css?family=Open+Sans:400,300,600,700' rel='stylesheet' type='text/css'>
   
     <link href='http://fonts.googleapis.com/css?family=Gentium+Basic:400,700,400italic,700italic' rel='stylesheet' type='text/css'>
+
+    
+
+
     <link href="css/styles.css" rel="stylesheet">
     <script src="https://cdnjs.cloudflare.com/ajax/libs/modernizr/2.8.1/modernizr.min.js" type="text/javascript"></script>
     <meta content="width=device-width, initial-scale=1.0, maximum-scale=1.0, user-scalable=no" name="viewport">
@@ -30,8 +34,11 @@
            <div class="container">
               <div class="row">
                 <div class="col-sm-12 col-md-6 col-lg-6">
-                 <img src="images/stylesconferenceDesktop.png" class="img-responsive" />
 
+                <div class="tcycle" data-fx="scroll">
+                 <img src="images/stylesconferenceDesktop.png" class="img-responsive" />
+                <img src="images/stylesMobile.png" class="img-responsive" />
+                </div>
       
 
 
@@ -147,6 +154,7 @@
     <script src="https://code.jquery.com/jquery-1.10.2.min.js"></script>
     <script src="https://code.jquery.com/ui/1.10.3/jquery-ui.js"></script>
      <script src="https://maxcdn.bootstrapcdn.com/bootstrap/3.2.0/js/bootstrap.min.js"></script>
+     <script src="js/jquery.tcycle.js"></script>
     <script src="js/plugin.js"></script>
     <script src="js/main.js"></script>
   </body>

diff --git a/js/jquery.tcycle.js b/js/jquery.tcycle.js
@@ -1,0 +1,37 @@
+/*! tCycle (c) 2013 M.Alsup MIT/GPL 20131130 */
+(function($){
+"use strict";
+$.fn.tcycle = function(){
+
+return this.each(function(){
+  var i=0, c=$(this), s=c.children(), o=$.extend({speed:500,timeout:4000},c.data()), f=o.fx!='scroll',
+    l=s.length, w=c.width(), z=o.speed, t=o.timeout, css={overflow:'hidden'}, p='position', a='absolute',
+    tfn=function(){setTimeout(tx,t);}, scss = $.extend({position:a,top:0}, f?{left:0}:{left:w}, o.scss);
+  if (c.css(p)=='static')
+    css[p]='relative';
+  c.prepend($(s[0]).clone().css('visibility','hidden')).css(css);
+  s.css(scss);
+  if(f)
+    s.hide().eq(0).show();
+  else
+    s.eq(0).css('left',0);
+  setTimeout(tx,t);
+
+  function tx(){
+    var n = i==(l-1) ? 0 : (i+1), w=c.width(), a=$(s[i]), b=$(s[n]);
+    if (f){
+      a.fadeOut(z);
+      b.fadeIn(z,tfn);
+    }else{
+      a.animate({left:-w},z,function(){
+        a.hide();
+      });
+      b.css({'left':w,display:'block'}).animate({left:0},z,tfn);
+    }
+    i = i==(l-1) ? 0 : (i+1);
+  }
+});
+
+};
+$(function(){$('.tcycle').tcycle();});
+})(jQuery);

diff --git a/css/styles.css b/css/styles.css
@@ -443,6 +443,10 @@ body.fullPage-portfolio {
   -moz-box-sizing: border-box;
   box-sizing: border-box; }
 
+
+
+
+
 .slide {
   float: left;
   height: 100%;
@@ -816,6 +820,12 @@ color:#5e5e5e;
       -webkit-transition-delay: 0, 0.2s; }
 
 @media screen and (max-width: 700px) {
+
+
+
+ 
+
+
 
 .row.col-md-5{ text-align:center!important;
 }  

diff --git a/js/main.js b/js/main.js
@@ -18,7 +18,7 @@
       }
     });
 
-    
+
 
 
 
